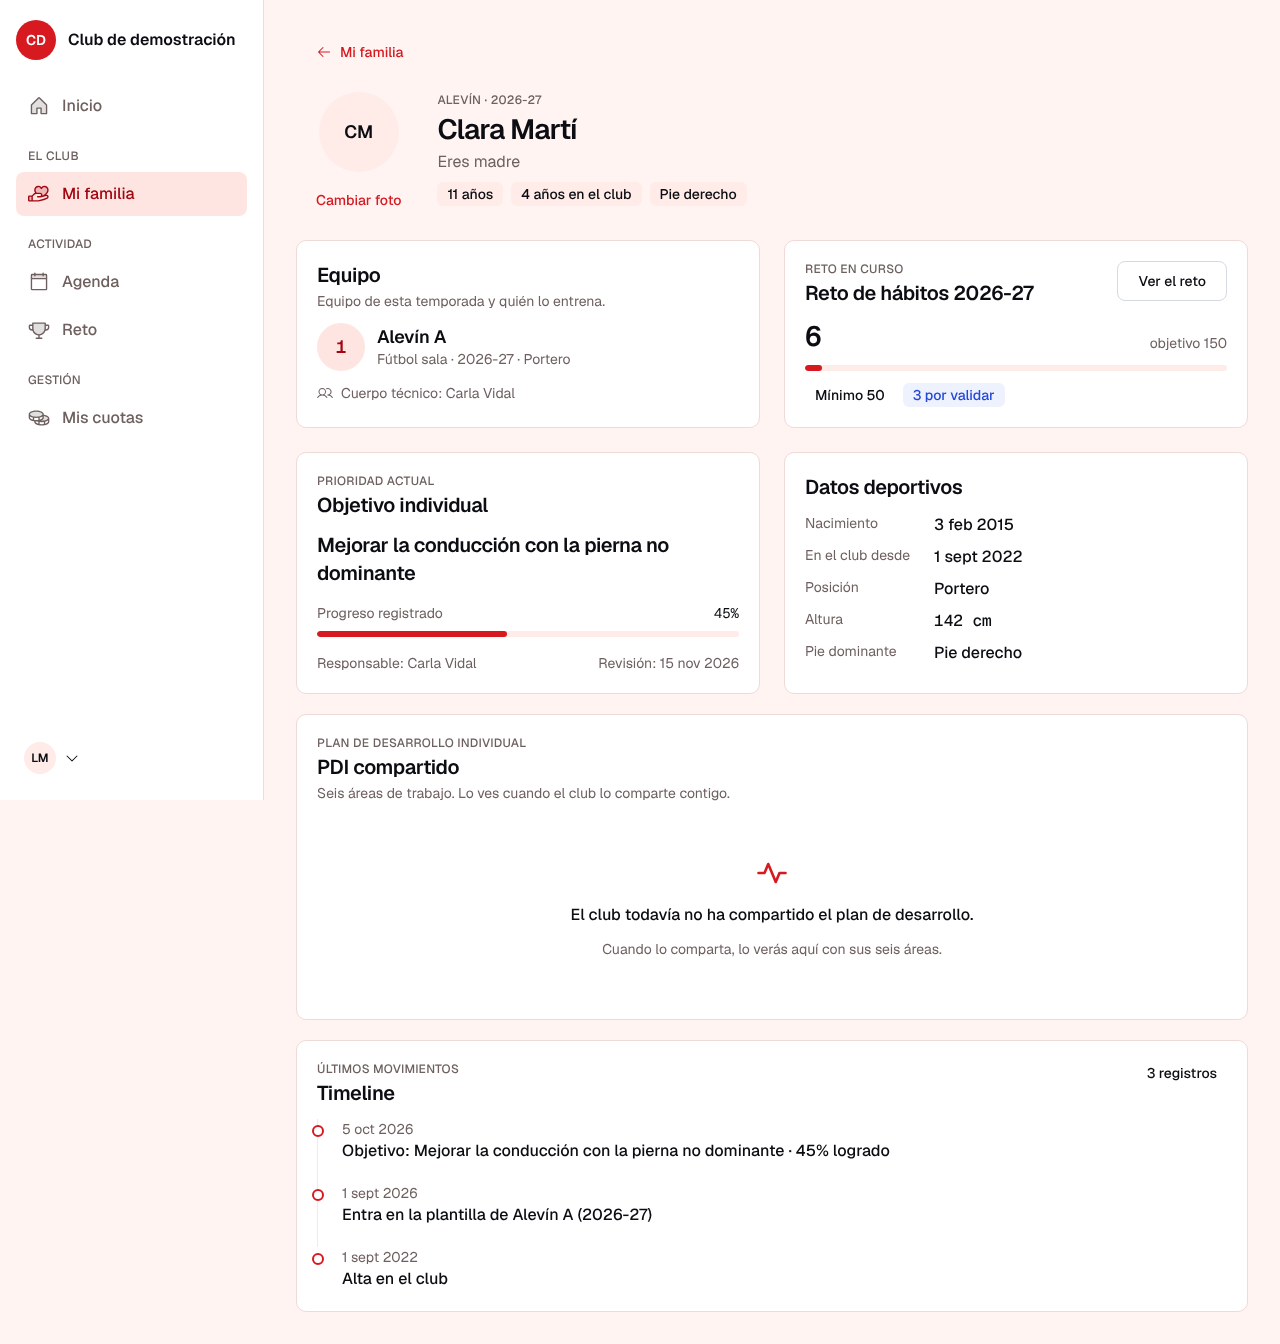
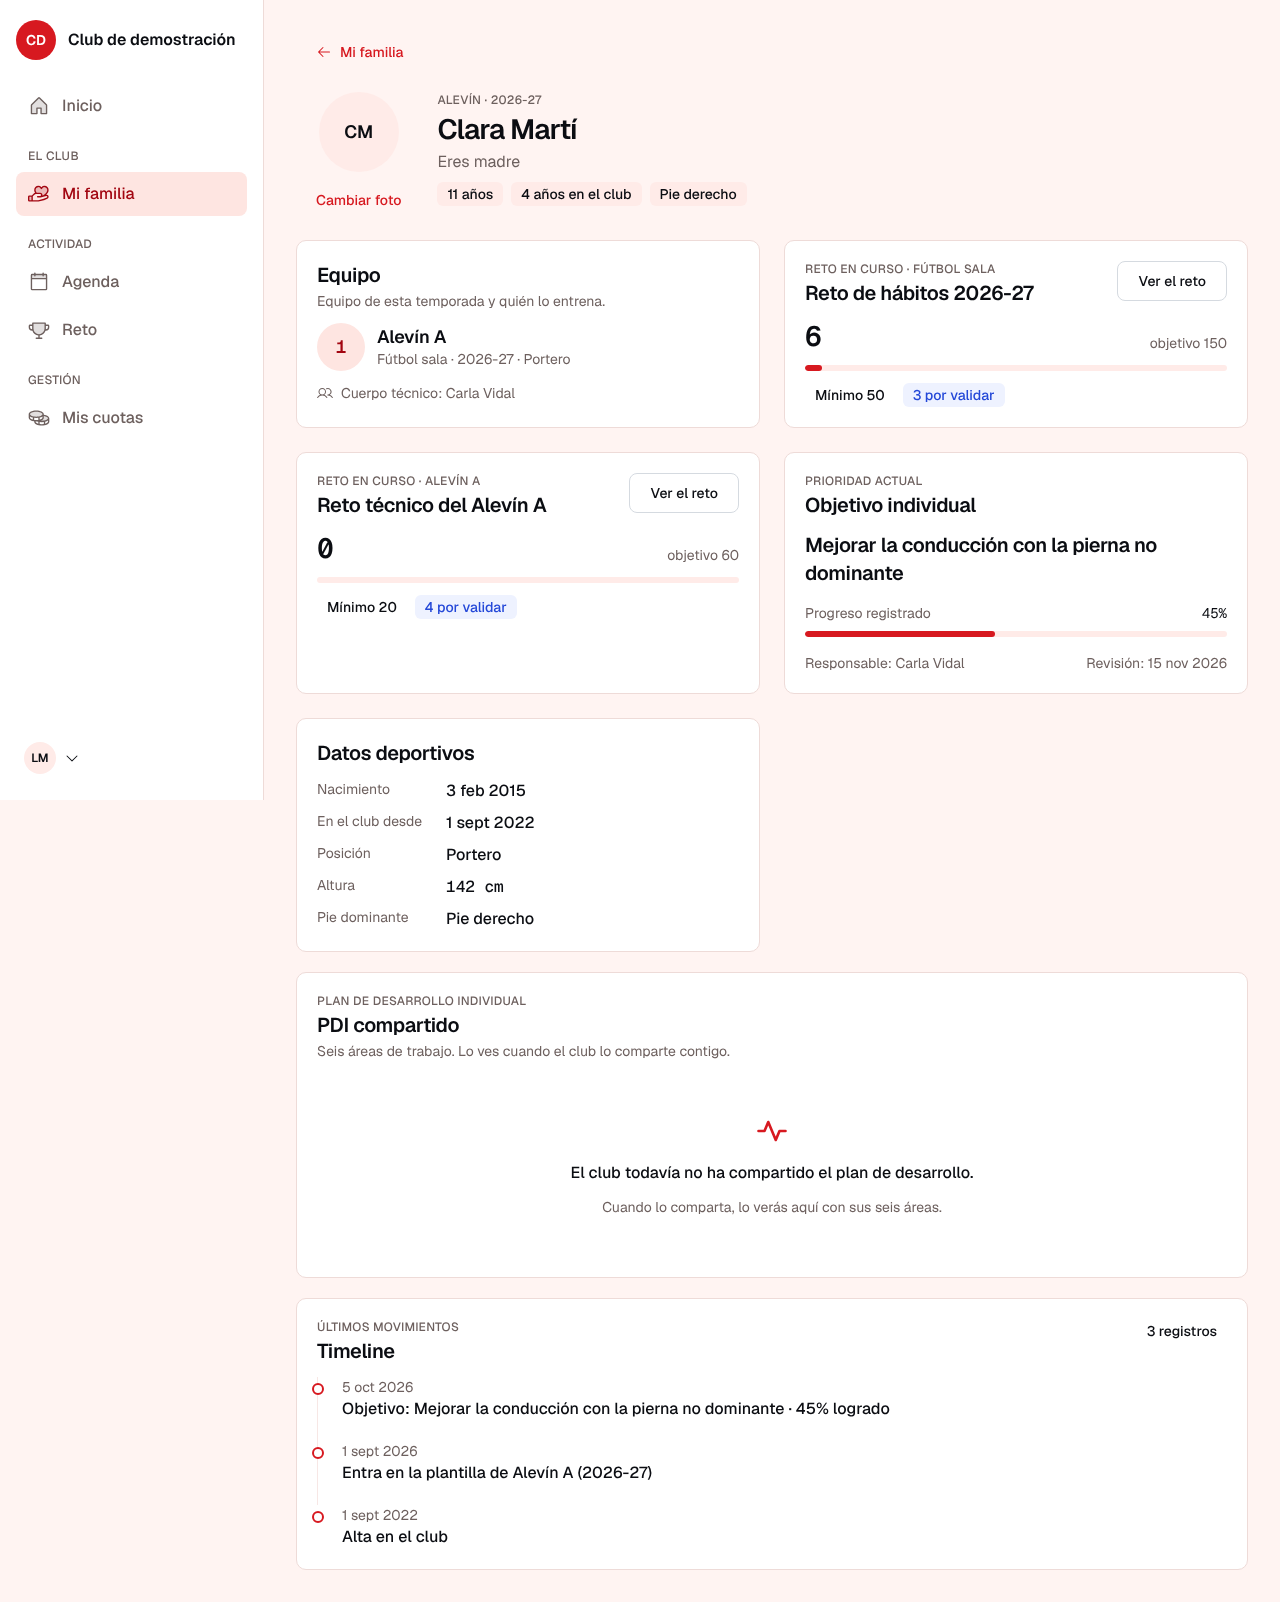
docs: capturas del reto por sección o equipo
Claude-Session: https://claude.ai/code/session_014yQj82pBJqHU9VCwZQCUie

diff --git a/docs/capturas/README.md b/docs/capturas/README.md
@@ -272,11 +272,15 @@ Cada club vive en una ruta del mismo dominio: el club demo en `/demo`, el negoci
 
 ![Inicio de la entrenadora](escritorio-48b-entrenadora-inicio.png)
 
-## Reto por puntos (`/demo/challenges`, Bloque 13)
+## Reto por puntos (`/demo/challenges`, Bloque 13; ámbito por sección o equipo, ADR 0032)
 
-### Retos del club
+### Retos del club: cada uno de una sección entera o de un solo equipo
 
 ![Retos](escritorio-70-retos.png)
+
+### Nuevo reto (hoja): sección y alcance, toda la sección o un solo equipo
+
+![Nuevo reto](escritorio-70b-reto-nuevo.png)
 
 ### Un reto: catálogo de pruebas
 
@@ -294,7 +298,7 @@ Cada club vive en una ruta del mismo dominio: el club demo en `/demo`, el negoci
 
 ![Participación](escritorio-73-reto-participacion.png)
 
-### El reto visto por la familia: solo los puntos de los suyos
+### Los retos vistos por la familia: los de la sección y los del equipo de cada jugador, solo con sus puntos
 
 ![Reto de la familia](escritorio-74-familia-reto.png)
 
